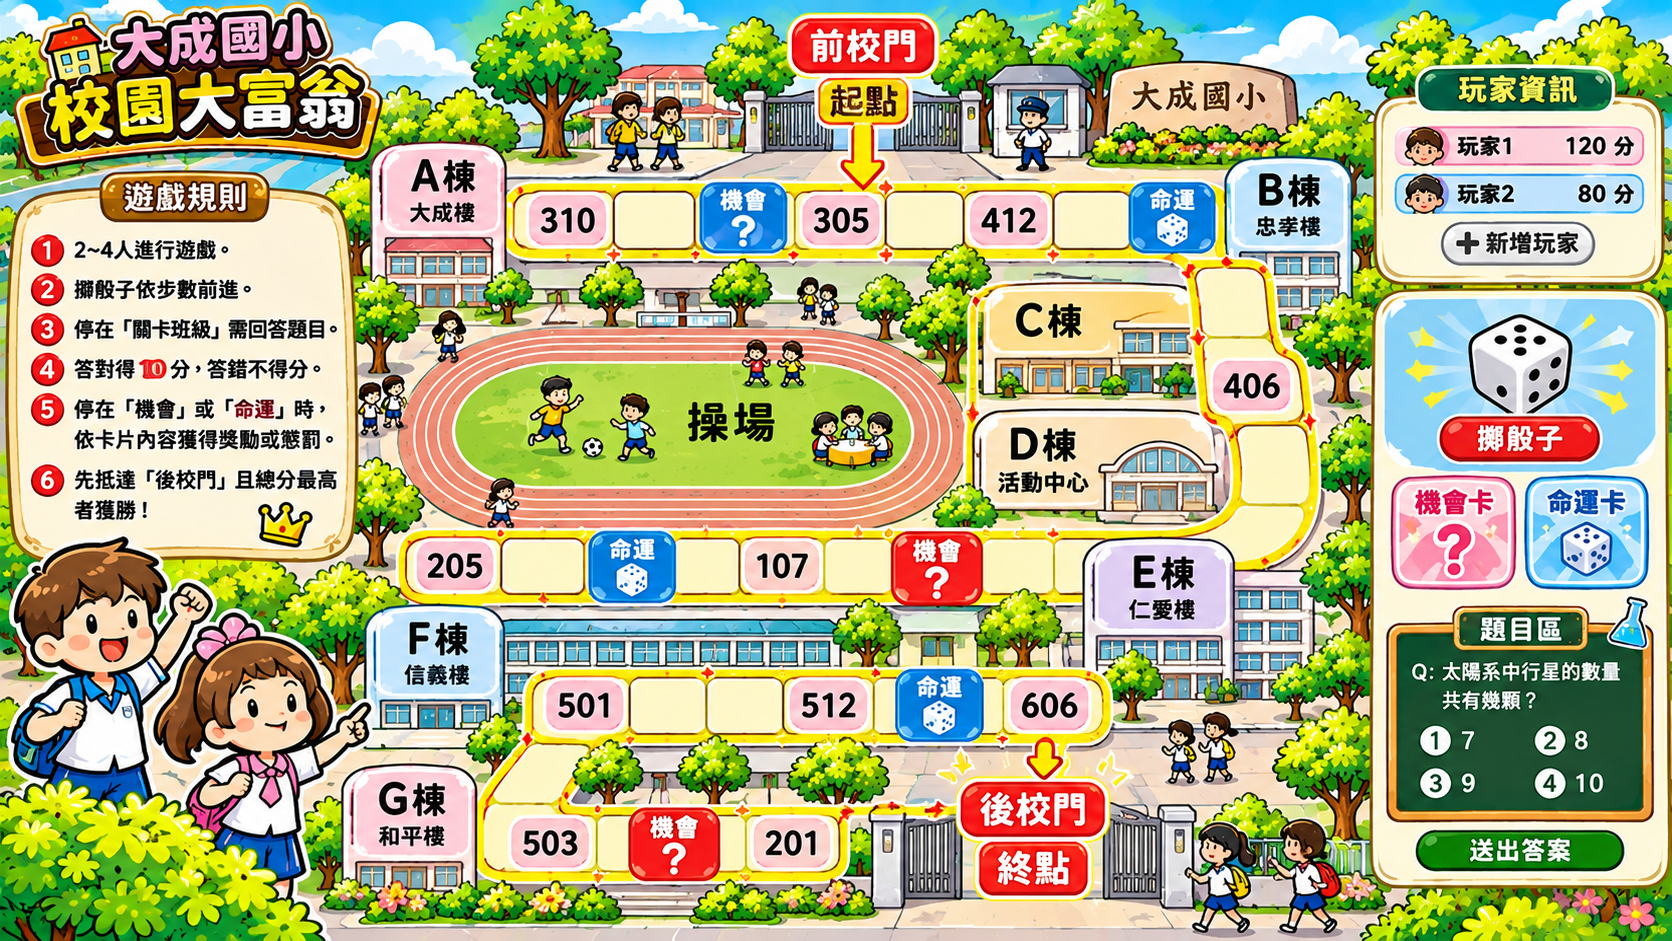
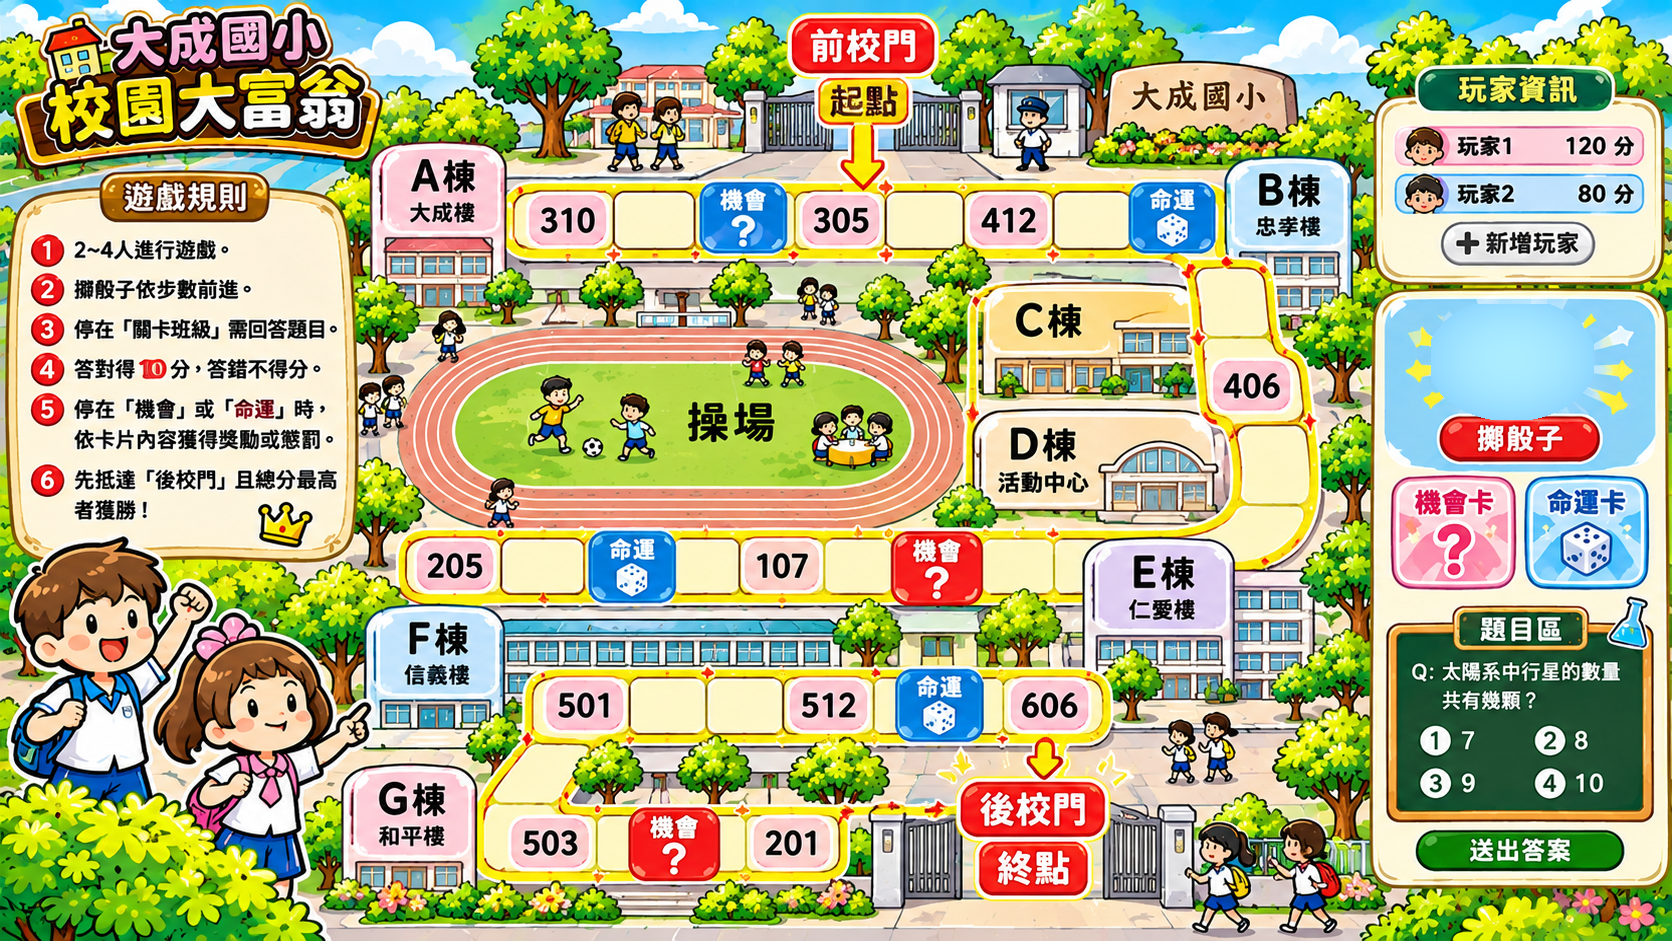
Add files via upload

Changed region(s): [[0.8397, 0.3082, 0.9641, 0.4623]]

diff --git a/index.html b/index.html
@@ -1,5 +1,5 @@
 <!doctype html>
-<html lang="zh-Hant"><head><meta charset="utf-8"><meta name="viewport" content="width=device-width,initial-scale=1"><title>大成國小｜校園大富翁・原圖原位互動版</title>
+<html lang="zh-Hant"><head><meta charset="utf-8"><meta name="viewport" content="width=device-width,initial-scale=1"><title>大成國小｜校園大富翁・骰子動畫與原圖題板版</title>
 <style>
 *{box-sizing:border-box}body{margin:0;background:linear-gradient(#65cbff,#caf6ff);font-family:'Microsoft JhengHei','Noto Sans TC',system-ui,sans-serif;color:#352d47}button,select,input{font:inherit}button{cursor:pointer}button:disabled{opacity:.5;cursor:not-allowed}
 .scrollview{overflow:auto;width:100%;height:100vh;padding:8px;display:flex;align-items:flex-start;justify-content:center}
@@ -29,12 +29,46 @@
 @media(max-width:1100px){.scrollview{justify-content:flex-start}.stage{width:1100px;flex:0 0 1100px}}
 
 #players.panel{left:82.15%;top:9%;width:16.5%;height:25%;display:block;padding:0;margin:0;background:none;border:0;border-radius:0;box-shadow:none}#players .panelTitle{display:none}#roster{position:absolute;top:2.88cqw;left:0;right:0;display:flex;flex-direction:column;gap:.08cqw}#players .player{position:relative;height:2.55cqw;min-height:0;width:calc(100% - 3.5cqw);margin:0 0 0 3.5cqw;padding:0 .40cqw 0 .20cqw;display:flex;align-items:center;gap:.25cqw;border:0;outline:0;border-radius:.24cqw;box-shadow:none;font-size:1.07cqw;font-weight:1000;color:#241e19;background:#ffe3ec}#players .player:nth-child(2){background:#d8f0ff}#players .player:nth-child(3){background:#e4e5ff}#players .player:nth-child(4){background:#f3defb}#players .player .symbol{display:none}#players .player .pts{margin-left:auto;font-size:1.08cqw;color:#17171b}#players .player.active{outline:.18cqw solid #f1ae24;outline-offset:-.18cqw;box-shadow:inset 0 0 .3cqw #ffd44f}#players .player.finished{opacity:1}#diceArea.panel{left:82.0%;top:35.4%;width:16.5%;height:17%;padding:0;margin:0;display:block;background:none;border:0;border-radius:0;box-shadow:none}#diceGlyph{position:absolute;right:9%;top:8%;display:flex;align-items:center;justify-content:center;min-width:3.1cqw;height:2.15cqw;padding:0 .55cqw;border-radius:1cqw;background:rgba(255,255,255,.92);color:#274466;font-size:1.03cqw;font-weight:1000;line-height:1}#roll{position:absolute;left:15%;top:65%;width:70%;height:30%;margin:0;padding:0;background:transparent;border:0;box-shadow:none;color:transparent;text-shadow:none;font-size:0;opacity:1;border-radius:2cqw;cursor:pointer}#roll:disabled{opacity:1;cursor:not-allowed}#roll:focus-visible{outline:.22cqw solid #1269d2;outline-offset:.10cqw}.cardButtons{left:82.0%;top:54.5%;width:16.5%;height:9.5%;display:grid;grid-template-columns:1fr 1fr;gap:.45cqw}.cardButton,.cardButton.chance,.cardButton.fate{background:transparent;border:none;border-radius:1.2cqw;box-shadow:none;font-size:0;color:transparent;text-shadow:none;opacity:1;padding:0}#quiz{left:82.15%;top:65.35%;width:16.2%;height:31%;display:flex;flex-direction:column;gap:.18cqw;background:transparent;border:none;padding:.28cqw .45cqw .18cqw .45cqw;overflow:hidden}#quiz .panelTitle{display:none}#questionBody{font-size:.86cqw;font-weight:900;line-height:1.25;overflow:visible;min-height:0;flex:1;color:#fff6db;padding-top:.48cqw}#questionBody h3{margin:0 0 .28cqw;font-size:.94cqw;line-height:1.28;color:#fff8e7}.answerGrid{display:grid;grid-template-columns:1fr 1fr;gap:.18cqw;margin-top:.18cqw}.answer{background:rgba(255,255,255,.96);border:.12cqw solid #d9c17b;border-radius:.8cqw;color:#173c23;padding:.16cqw .18cqw;min-height:2.0cqw;font-size:.82cqw;font-weight:1000;line-height:1.16}.feedback{margin-top:.22cqw;padding:.22cqw .28cqw;border:.1cqw solid #d6ad59;border-radius:.35cqw;background:rgba(255,249,222,.96);font-size:.76cqw;line-height:1.24;color:#53331c}.action{background:linear-gradient(#5fd24f,#17962d);color:white;border:.18cqw solid #fff;border-radius:1.4cqw;font-size:.9cqw;font-weight:1000;padding:.22cqw;width:100%;box-shadow:0 .12cqw 0 #14561b}.qmeta{color:#fff0b8;font-size:.74cqw;margin-bottom:.14cqw}#tokens image{filter:drop-shadow(1px 2px 3px #0007)}#tokens .badge{fill:#fff;stroke:#d79200;stroke-width:2}#tokens .badgeText{font-size:14px;fill:#a25400;font-weight:1000;text-anchor:middle;dominant-baseline:central}
+
+/* V6: 原背景內建可動骰子與原圖題板，沒有額外面板與題目捲軸 */
+#diceArea.panel{left:82%;top:35.4%;width:16.5%;height:17%;display:block;background:transparent;border:0;box-shadow:none;overflow:visible}
+#diceSprite{position:absolute;left:23%;top:3%;width:54%;height:61%;object-fit:contain;z-index:2;pointer-events:none;transform-origin:50% 50%;filter:drop-shadow(0 .15cqw .15cqw #26619d88)}
+#diceSprite.rolling{animation:die-roll .11s linear infinite;filter:drop-shadow(0 .25cqw .3cqw #1d508899)}
+@keyframes die-roll{0%{transform:translate(0,0) rotate(-18deg) scale(.91)}25%{transform:translate(5%,-11%) rotate(65deg) scale(1)}50%{transform:translate(-4%,5%) rotate(145deg) scale(.96)}75%{transform:translate(5%,-6%) rotate(235deg) scale(1.04)}100%{transform:translate(0,0) rotate(342deg) scale(.93)}}
+#diceGlyph{position:absolute;right:7%;top:7%;z-index:3;display:none;min-width:2.1cqw;height:1.7cqw;background:#fff9c3;border:.12cqw solid #75bdea;border-radius:1cqw;color:#164d73;font-size:.85cqw;font-weight:1000;text-align:center;line-height:1.5cqw}
+#diceGlyph.show{display:block}
+#roll{left:15%;top:66%;width:70%;height:29%;z-index:4;background:transparent;border:0;box-shadow:none;color:transparent;font-size:0}
+#quiz.panel{left:82.4%;top:67.5%;width:15.7%;height:18.9%;margin:0;padding:.2cqw .35cqw .12cqw;background:#075a35;border:0;box-shadow:none;border-radius:.3cqw;display:flex;flex-direction:column;gap:0;overflow:hidden}
+#quiz .panelTitle{display:none!important}
+#questionBody{color:#fff;display:flex;flex-direction:column;gap:.18cqw;overflow:hidden!important;min-height:0;flex:1;font-weight:900;font-size:.91cqw;line-height:1.20;white-space:normal;padding:0}
+#questionBody h3{font-size:.95cqw;line-height:1.19;color:white;margin:0;font-weight:1000}
+#questionBody .qmeta{font-size:.72cqw;color:#f8eeb8;margin:0}
+#questionBody .answerGrid{display:grid;grid-template-columns:1fr 1fr;gap:.19cqw;margin-top:auto}
+#questionBody .answer{min-height:1.72cqw;padding:.12cqw .16cqw;border:.1cqw solid #c2d9b9;border-radius:.55cqw;background:rgba(255,255,255,.96);font-size:.72cqw;line-height:1.16;color:#17442e;text-align:left;font-weight:1000}
+#questionBody .answer.selected{background:#ffdf7c;border-color:#f9ba26;box-shadow:inset 0 0 0 .08cqw #de9800}
+#questionBody .answer.correct{background:#bcf5c6;border-color:#38894e}
+#questionBody .answer.wrong{background:#ffd5d5;border-color:#ca5555}
+#quizSend{position:absolute;z-index:7;left:84.25%;top:87.25%;width:12%;height:4.1%;background:transparent;color:transparent;font-size:0;border:0;border-radius:2cqw;cursor:pointer}
+#quizSend:disabled{opacity:1;cursor:not-allowed}
+#quizSend:focus-visible{outline:.2cqw solid #fff;outline-offset:.1cqw}
+#quizMore{position:absolute;z-index:8;right:1.6%;top:85%;background:#fff9d9;border:.13cqw solid #d4a34d;border-radius:.7cqw;color:#28623e;font-size:.77cqw;font-weight:1000;line-height:1.1;padding:.18cqw .35cqw;display:none}
+#quizMore.visible{display:block}
+/* 詳解以可關閉的結果卡完整顯示，不擠壓背景題板。 */
+#quizResultLayer{position:absolute;z-index:25;inset:0;display:none;align-items:center;justify-content:center;background:#092f4882}
+#quizResultLayer.show{display:flex}
+#quizResultCard{width:47%;max-height:75%;overflow:auto;padding:1.5cqw 2cqw;border:.38cqw solid #f6c25c;border-radius:1.6cqw;background:#fffbee;box-shadow:0 .5cqw 2cqw #0005;font-size:1.25cqw;line-height:1.6;color:#3a2f35}
+#quizResultCard h2{font-size:2.1cqw;color:#c15160;margin:0 0 .5cqw}
+#quizResultCard .result-expl{max-height:18cqw;overflow-y:auto}
+#quizResultCard button{font-size:1.3cqw;margin-top:1cqw}
+
 </style></head><body><div class="scrollview"><main class="stage" id="stage" aria-label="大成國小校園大富翁互動遊戲地圖">
 <svg id="tokens" viewBox="0 0 1672 941" aria-label="玩家棋子位置"></svg>
 <section id="players" class="overlay panel" aria-label="玩家資訊"><div class="panelTitle">玩家資訊</div><div id="roster"></div></section>
-<section id="diceArea" class="overlay panel" aria-label="骰子區"><div id="diceGlyph">⚀</div><button id="roll" disabled title="點擊背景紅色擲骰子按鈕" aria-label="擲骰子">🎲 擲骰子</button></section>
+<section id="diceArea" class="overlay panel" aria-label="骰子區"><img id="diceSprite" src="dice.png" alt="" aria-hidden="true"><div id="diceGlyph" aria-live="polite"></div><button id="roll" disabled title="點擊背景紅色擲骰子按鈕" aria-label="擲骰子">🎲 擲骰子</button></section>
 <div class="cardButtons overlay"><button id="chance" class="cardButton chance" disabled aria-label="抽機會卡" title="抽機會卡"></button><button id="fate" class="cardButton fate" disabled aria-label="抽命運卡" title="抽命運卡"></button></div>
 <section id="quiz" class="overlay panel" aria-label="即時答題區"><div class="panelTitle">題目區</div><div id="questionBody"><h3>準備挑戰自然科學王！</h3>請先設定玩家。停在班級關卡時，題目會直接出現在這裡，選答案後顯示詳解。</div></section>
+<button id="quizSend" disabled aria-label="送出答案" title="送出選擇的答案"></button><button id="quizMore" aria-label="放大閱讀完整題目">放大題目</button>
+<div id="quizResultLayer" role="dialog" aria-modal="true" aria-label="答案結果"><div id="quizResultCard"></div></div>
 <div id="progress" class="overlay" aria-live="polite">從前校門出發，迎接校園大富翁挑戰！</div>
 <div id="modeArea" class="overlay"><div class="configline"><label for="unit">📚 題庫</label><select id="unit"><option value="all">第一、第二單元混合</option><option value="01">第一單元 動物世界</option><option value="02">第二單元 探索聲光世界</option></select></div></div>
 <div id="bottomcontrols" class="overlay"><button id="newGame">↻ 新遊戲</button><button id="fullscreen">⛶ 全螢幕</button></div>
@@ -114,20 +148,66 @@ function updateRoster(){
 function info(message){$('progress').textContent=message}
 function setupNames(){$('nameInputs').innerHTML=Array.from({length:Number($('playerCount').value)},(_,i)=>`<input class="nameInput" maxlength="10" value="玩家${i+1}" aria-label="玩家${i+1}名稱">`).join('')}
 $('playerCount').addEventListener('change',setupNames);setupNames();
-function begin(){players=[...document.querySelectorAll('.nameInput')].map((el,i)=>({name:el.value.trim()||`玩家${i+1}`,pos:0,score:0,finished:false}));turn=0;phase='roll';seen.clear();questionNow=null;$('setupShade').style.display='none';$('roll').disabled=false;$('chance').disabled=true;$('fate').disabled=true;$('questionBody').innerHTML='<h3>🎲 擲骰子開始！</h3><p>當玩家走到班級格時，這裡會出現自然科學題目與選項。</p>'; updateRoster();info(`輪到 ${players[turn].name}，請直接點右側紅色「擲骰子」！`)}
+function begin(){players=[...document.querySelectorAll('.nameInput')].map((el,i)=>({name:el.value.trim()||`玩家${i+1}`,pos:0,score:0,finished:false}));turn=0;phase='roll';seen.clear();questionNow=null;$('setupShade').style.display='none';$('quizSend').disabled=true;$('quizResultLayer').classList.remove('show');$('diceGlyph').classList.remove('show');$('roll').disabled=false;$('chance').disabled=true;$('fate').disabled=true;$('questionBody').innerHTML='<h3>🎲 擲骰子開始！</h3><p>停在班級時，題目直接出現在這裡。</p>'; updateRoster();info(`輪到 ${players[turn].name}，請直接點右側紅色「擲骰子」！`)}
 $('start').onclick=begin;
-$('newGame').onclick=()=>{if(phase!=='setup'&&!confirm('確定重新開始？目前分數將歸零。'))return;phase='setup';players=[];$('setupShade').style.display='flex';$('roll').disabled=true;updateRoster();info('請設定玩家')};
+$('newGame').onclick=()=>{if(phase!=='setup'&&!confirm('確定重新開始？目前分數將歸零。'))return;phase='setup';$('quizSend').disabled=true;$('quizResultLayer').classList.remove('show');$('diceSprite').classList.remove('rolling');players=[];$('setupShade').style.display='flex';$('roll').disabled=true;updateRoster();info('請設定玩家')};
 $('fullscreen').onclick=()=>{if(!document.fullscreenElement){$('stage').requestFullscreen?.().catch(()=>{})}else document.exitFullscreen?.()};
 const wait=ms=>new Promise(res=>setTimeout(res,ms));
-async function roll(){if(phase!=='roll'||locked)return;locked=true;phase='moving';$('roll').disabled=true;let n=1;for(let i=0;i<12;i++){n=Math.floor(Math.random()*6)+1;$('diceGlyph').textContent=`${n} 點`; await wait(50+i*6)}const p=players[turn],end=Math.min(route.length-1,p.pos+n);info(`${p.name} 擲出 ${n} 點，沿校園前進！`);while(p.pos<end){p.pos++;drawTokens();await wait(215)}locked=false;const tile=route[p.pos];if(tile.type==='finish'){p.finished=true;info(`🏁 ${p.name} 抵達後校門！`);nextTurn();return}if(tile.type==='chance'||tile.type==='fate'){phase='card-pick';$('chance').disabled=tile.type!=='chance';$('fate').disabled=tile.type!=='fate';info(`${p.name} 停在${tile.type==='chance'?'機會':'命運'}格，請點選右側的卡片！`);return}if(tile.type==='walkway'){info(`${p.name} 經過 ${tile.label}，這格不需答題，下一位！`);nextTurn();return}ask(tile)}
+async function roll(){if(phase!=='roll'||locked)return;locked=true;phase='moving';$('roll').disabled=true;$('diceSprite').classList.add('rolling');$('diceGlyph').classList.remove('show');let n=1;for(let i=0;i<12;i++){n=Math.floor(Math.random()*6)+1;$('diceGlyph').textContent=`${n} 點`; await wait(50+i*6)}$('diceSprite').classList.remove('rolling');$('diceGlyph').classList.add('show');const p=players[turn],end=Math.min(route.length-1,p.pos+n);info(`${p.name} 擲出 ${n} 點，沿校園前進！`);while(p.pos<end){p.pos++;drawTokens();await wait(215)}locked=false;const tile=route[p.pos];if(tile.type==='finish'){p.finished=true;info(`🏁 ${p.name} 抵達後校門！`);nextTurn();return}if(tile.type==='chance'||tile.type==='fate'){phase='card-pick';$('chance').disabled=tile.type!=='chance';$('fate').disabled=tile.type!=='fate';info(`${p.name} 停在${tile.type==='chance'?'機會':'命運'}格，請點選右側的卡片！`);return}if(tile.type==='walkway'){info(`${p.name} 經過 ${tile.label}，這格不需答題，下一位！`);nextTurn();return}ask(tile)}
 $('roll').onclick=roll;
 function pickQ(){const unit=$('unit').value;const pool=QUESTIONS.filter(q=>unit==='all'||q.unit.startsWith(unit));if(!pool.length)return null;let avail=pool.filter(q=>!seen.has(q.id));if(!avail.length){seen.clear();avail=pool}const q=avail[Math.floor(Math.random()*avail.length)];seen.add(q.id);return q}
-function ask(tile){phase='answer';const q=pickQ();if(!q){$('questionBody').innerHTML='<h3>題庫沒有可用題目</h3><button class="action" id="continueBtn">繼續</button>';$('continueBtn').onclick=nextTurn;return}questionNow={q,tile,answered:false};const unit=q.unit.startsWith('01')?'動物世界':'探索聲光世界';$('questionBody').innerHTML=`<div class="qmeta">📍${esc(tile.label)}｜${esc(unit)}</div><h3>${esc(q.question)}</h3><div class="answerGrid">${q.options.map((a,i)=>`<button class="answer" data-a="${i}">${'ABCD'[i]||i+1}. ${esc(a)}</button>`).join('')}</div><div id="result"></div>`;document.querySelectorAll('.answer').forEach(el=>el.onclick=()=>answer(Number(el.dataset.a)));info(`${players[turn].name} 停在 ${tile.label} 關卡，請在右下角選答案！`)}
-function answer(i){if(phase!=='answer'||questionNow.answered)return;questionNow.answered=true;const q=questionNow.q,p=players[turn],correct=i===q.answer;if(correct)p.score+=10;document.querySelectorAll('.answer').forEach((el,j)=>{el.disabled=true;if(j===q.answer)el.classList.add('correct');else if(j===i)el.classList.add('wrong')});const explanation=q.explanation?.trim()||'原始題庫沒有提供這一題的詳解。';$('result').innerHTML=`<div class="feedback"><b>${correct?'🎉 恭喜答對！+10 分':'💪 再加油！'}</b><div>正解：${'ABCD'[q.answer]||q.answer+1}．${esc(q.options[q.answer])}</div><div>📖 詳解：${esc(explanation)}</div></div><button class="action" id="continueBtn">✅ 完成，下一位</button>`;$('continueBtn').onclick=nextTurn;updateRoster();info(`${p.name} ${correct?'答對 +10 分':'答錯不扣分'}，已顯示詳解。`)}
+function ask(tile){phase='answer';const q=pickQ();if(!q){$('questionBody').innerHTML='<h3>題庫沒有可用題目</h3><button class="action" id="continueBtn">繼續</button>';$('continueBtn').onclick=nextTurn;return}questionNow={q,tile,answered:false,selected:null};$('quizSend').disabled=true;const unit=q.unit.startsWith('01')?'動物世界':'探索聲光世界';$('questionBody').innerHTML=`<div class="qmeta">📍${esc(tile.label)}｜${esc(unit)}</div><h3>${esc(q.question)}</h3><div class="answerGrid">${q.options.map((a,i)=>`<button class="answer" data-a="${i}">${'ABCD'[i]||i+1}. ${esc(a)}</button>`).join('')}</div><div id="result"></div>`;document.querySelectorAll('.answer').forEach(el=>el.onclick=()=>selectAnswer(Number(el.dataset.a)));$('quizMore').classList.remove('visible');requestAnimationFrame(fitQuiz);info(`${players[turn].name} 停在 ${tile.label} 關卡，請在右下角選答案！`)}
+function selectAnswer(i){
+ if(phase!=='answer'||!questionNow||questionNow.answered)return;
+ questionNow.selected=i;
+ document.querySelectorAll('#questionBody .answer').forEach((b,j)=>b.classList.toggle('selected',j===i));
+ $('quizSend').disabled=false;
+ info(`${players[turn].name} 已選第 ${i+1} 個答案，請點右下角綠色「送出答案」！`);
+}
+$('quizSend').onclick=()=>{if(phase==='answer'&&questionNow?.selected!==null)answer(questionNow.selected)};
+function fitQuiz(){
+ const body=$('questionBody');
+ if(!body)return;
+ let size=.95;
+ body.style.fontSize=`${size}cqw`;
+ const head=body.querySelector('h3');
+ const opts=body.querySelectorAll('.answer');
+ if(head)head.style.fontSize='1cqw';
+ opts.forEach(b=>b.style.fontSize='.78cqw');
+ while(body.scrollHeight>body.clientHeight+2 && size>.64){
+   size-=.04;
+   body.style.fontSize=`${size.toFixed(2)}cqw`;
+   if(head)head.style.fontSize=`${Math.max(.65,size+.04).toFixed(2)}cqw`;
+   opts.forEach(b=>b.style.fontSize=`${Math.max(.59,size-.12).toFixed(2)}cqw`);
+ }
+ $('quizMore').classList.toggle('visible',body.scrollHeight>body.clientHeight+2);
+}
+$('quizMore').onclick=()=>{
+ if(!questionNow)return;
+ const q=questionNow.q;
+ const card=$('quizResultCard');
+ card.innerHTML=`<h2>📖 完整題目</h2><p>${esc(q.question)}</p>${q.options.map((a,i)=>`<p>${'ABCD'[i]}. ${esc(a)}</p>`).join('')}<button class="action" id="closeRead">返回作答</button>`;
+ $('quizResultLayer').classList.add('show');
+ $('closeRead').onclick=()=>$('quizResultLayer').classList.remove('show');
+};
+function answer(i){
+ if(phase!=='answer'||questionNow.answered)return;
+ questionNow.answered=true;
+ $('quizSend').disabled=true;
+ const q=questionNow.q,p=players[turn],correct=i===q.answer;
+ if(correct)p.score+=10;
+ document.querySelectorAll('#questionBody .answer').forEach((el,j)=>{el.disabled=true;if(j===q.answer)el.classList.add('correct');else if(j===i)el.classList.add('wrong')});
+ const explanation=q.explanation?.trim()||'原始題庫沒有提供這一題的詳解。';
+ $('quizResultCard').innerHTML=`<h2>${correct?'🎉 恭喜答對！+10 分':'💪 再加油！'}</h2><p>正解：${'ABCD'[q.answer]||q.answer+1}．${esc(q.options[q.answer])}</p><div class="result-expl">📖 詳解：${esc(explanation)}</div><button class="action" id="continueBtn">✅ 完成，下一位玩家</button>`;
+ $('quizResultLayer').classList.add('show');
+ $('continueBtn').onclick=()=>{$('quizResultLayer').classList.remove('show');nextTurn()};
+ updateRoster();info(`${p.name} ${correct?'答對 +10 分':'答錯不扣分'}，請閱讀詳解。`);
+}
+
 const EVENTS={chance:[['🌟 助人為樂','熱心幫助同學整理教具',5],['📚 愛閱讀','你閱讀自然科學圖書',10],['🍀 幸運日','答題表現受到老師稱讚',8],['🌱 環保小尖兵','一起維護美麗的校園',6]],fate:[['📝 忘記帶文具','下次要檢查書包',-5],['🎉 合作任務','與同學合作完成挑戰',6],['🧹 值日生','主動整理教室',5],['⏰ 忘記時間','活動遲到要改進',-3]]};
 function eventCard(type){phase='card';$('chance').disabled=true;$('fate').disabled=true;const e=EVENTS[type][Math.floor(Math.random()*EVENTS[type].length)];const p=players[turn];p.score=Math.max(0,p.score+e[2]);$('toastTitle').textContent=`${type==='chance'?'⭐ 機會卡':'🔮 命運卡'}｜${e[0]}`;$('toastText').textContent=`${e[1]}。${e[2]>=0?'+':''}${e[2]} 分，${p.name} 現有 ${p.score} 分。`;$('toast').style.display='block';$('toastDone').onclick=()=>{$('toast').style.display='none';nextTurn()};updateRoster();info(`${p.name} 抽到${type==='chance'?'機會':'命運'}卡！`)}
 $('chance').onclick=()=>{if(phase==='card-pick')eventCard('chance')};$('fate').onclick=()=>{if(phase==='card-pick')eventCard('fate')};
-function nextTurn(){if(players.every(p=>p.finished)){finish();return}let j=turn;do{j=(j+1)%players.length}while(players[j].finished);turn=j;phase='roll';$('roll').disabled=false;updateRoster();info(`輪到 ${players[turn].name}，請點右側紅色「擲骰子」！`)}
-function finish(){phase='finished';$('roll').disabled=true;let order=[...players].sort((a,b)=>b.score-a.score);$('quiz').querySelector('#questionBody').innerHTML=`<h3>🏆 校園大富翁結束！</h3>${order.map((p,i)=>`<div class="player">${['🥇','🥈','🥉','🏅'][i]} ${esc(p.name)}：${p.score}分</div>`).join('')}<button class="action" id="again">再玩一次</button>`;$('again').onclick=()=>$('newGame').click();info(`🎉 恭喜冠軍 ${order[0].name}！`);updateRoster()}
+function nextTurn(){$('quizSend').disabled=true;$('quizMore').classList.remove('visible');if(players.every(p=>p.finished)){finish();return}let j=turn;do{j=(j+1)%players.length}while(players[j].finished);turn=j;phase='roll';$('roll').disabled=false;updateRoster();info(`輪到 ${players[turn].name}，請點右側紅色「擲骰子」！`)}
+function finish(){phase='finished';$('quizSend').disabled=true;$('roll').disabled=true;let order=[...players].sort((a,b)=>b.score-a.score);$('quiz').querySelector('#questionBody').innerHTML=`<h3>🏆 校園大富翁結束！</h3>${order.map((p,i)=>`<div class="player">${['🥇','🥈','🥉','🏅'][i]} ${esc(p.name)}：${p.score}分</div>`).join('')}<button class="action" id="again">再玩一次</button>`;$('again').onclick=()=>$('newGame').click();info(`🎉 恭喜冠軍 ${order[0].name}！`);updateRoster()}
 updateRoster();
 </script></body></html>
